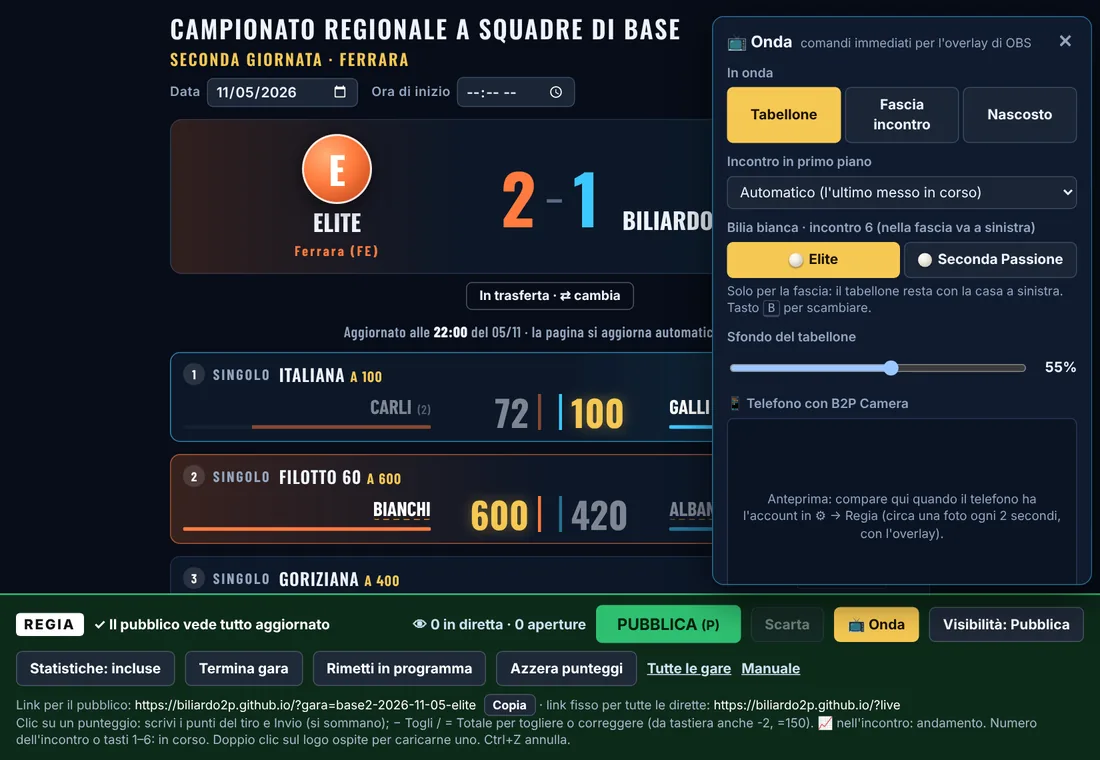
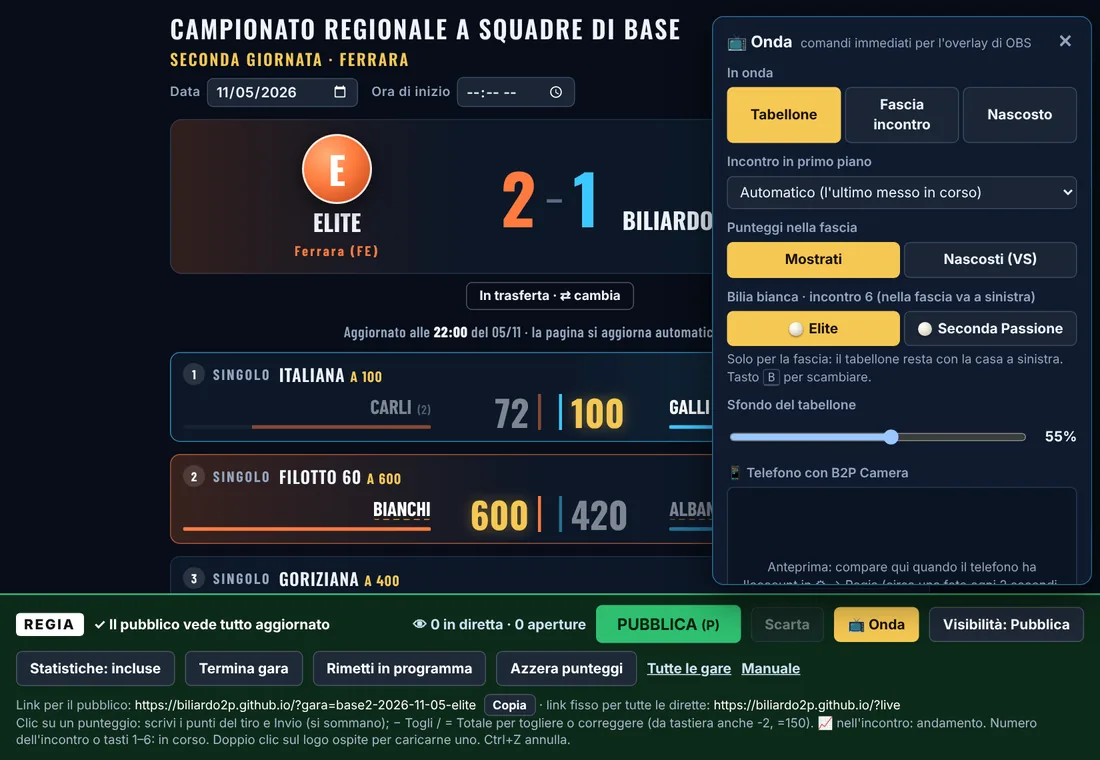
Fascia senza punteggi (nome VS nome) dal pannello Onda, tasto S; manuale; versione 2026112301
Claude-Session: https://claude.ai/code/session_013Bh35CD2cQ8S7o5rzFMs8H

Changed region(s): [[0.6491, 0.3329, 0.9891, 0.7566], [0.68, 0.2724, 0.9273, 0.3026]]

diff --git a/js/overlay.js b/js/overlay.js
@@ -231,6 +231,7 @@ function ovFasciaHTML(){
   const lv = OVMINI && S.stato==="live" ? `<span class="live"><i></i>LIVE</span>` : "";
   const chip = `<div class="chip"><img src="${LOGO_56}" alt="">${esc(S.title)}${S.subtitle ? `<span class="t2">${esc(S.subtitle)}</span>` : ""}${lv}</div>`;
   const i = ovPrimo(), m = S.matches[i]; if(!m) return chip + (OVMINI && !isTorneo() ? ovTeamBand() : "");
+  if(ovO().np) return chip + ovVsHTML(m, i);
   const L = ovRotList(), dots = L.length>1 ? `<div class="rot">${L.map(j=>`<i class="${j===i ? "on" : ""}"></i>`).join("")}</div>` : "";
   const [x, y] = ovFSides(m, i), ix = sd => sd==="h" ? 0 : 1, w = winner(m), tor = isTorneo(), yy = gYear();
   const club = (sd) => tor ? "" : esc((sd==="h" ? S.home : S.away).short || (sd==="h" ? S.home : S.away).name);   /* squadra solo nei campionati a squadre */
@@ -247,6 +248,19 @@ function ovFasciaHTML(){
   const ball = c => `<div class="bb"><i class="ball ${c}" title="${c==="wh" ? "bilia bianca" : "bilia gialla"}"></i></div>`;
   return chip + `<div class="lt balls${x==="a" ? " sw" : ""}${fresh ? " in" : ""}${dots ? " rotn" : ""}">${dots}${side(x)}${sc(x)}${ball("wh")}<div class="mid"><div class="k">${k}</div>${ovSpec(m)}${ovBars(m, x, y)}${extra}</div>${ball("ye")}${sc(y)}${side(y)}</div>`;
 }
+/* fascia senza punteggi (dal 23/11/2026): onda.np = true → "nome 1 VS nome 2" con squadra, logo e specialità; niente punteggi, bilie, set e punti squadra.
+   Per le dirette in cui nessuno aggiorna i punti (es. Enrico gioca). Lati come il tabellone (casa a sinistra). */
+function ovVsHTML(m, i){
+  const [x, y] = SDS(), tor = isTorneo();
+  const club = sd => esc((sd==="h" ? S.home : S.away).short || (sd==="h" ? S.home : S.away).name);
+  const names = sd => { const ns = m[sd].map((_,j)=>ovName(m, sd, j)).filter(Boolean); return ns.length ? ns.map(n=>`<span>${n}</span>`).join("") : "—"; };
+  const txt = sd => `${tor ? "" : `<div class="tm">${club(sd)}</div>`}<div class="p${m[sd].length>1 && m.kind!=="Staffetta" ? " two" : ""}">${m.kind==="Staffetta" ? ovName(m, sd, Math.min(relayIdx(m), m[sd].length-1)) || "—" : names(sd)}</div>`;
+  const side = sd => { const lg = tor ? "" : ovSqLogo(sd);
+    return `<div class="side ${sd} ${sd===x ? "L" : "R"}${lg ? " lg" : ""}">${lg ? `${lg}<div class="tx">${txt(sd)}</div>` : txt(sd)}</div>`; };
+  const k = tor ? [m.turno || "", m.bil ? "Biliardo " + esc(m.bil) : ""].filter(Boolean).join(" · ") : [`Incontro ${i+1}`, m.kind, m.bil ? "Biliardo " + esc(m.bil) : ""].filter(Boolean).join(" · ");
+  const fresh = i!==ovLastPrimo && ovLastPrimo!==-2; ovLastPrimo = i;
+  return `<div class="lt vs${x==="a" ? " sw" : ""}${fresh ? " in" : ""}">${side(x)}<div class="mid">${k ? `<div class="k">${k}</div>` : ""}<div class="vsv">VS</div>${ovSpec(m)}</div>${side(y)}</div>`;
+}
 /* logo della squadra agli estremi della fascia (campionati a squadre, dal 15/11/2026): casa = logo del circolo già ridotto, ospite = logo o sigla */
 function ovSqLogo(sd){ const img = sd==="h" ? `<img src="${LOGO_96}" alt="">` : S.away.logo ? `<img src="${esc(S.away.logo)}" alt="">` : S.away.badge ? `<div class="badge">${esc(S.away.badge)}</div>` : "";
   return img ? `<div class="flg">${img}</div>` : ""; }
@@ -259,6 +273,7 @@ function ovTeamBand(){
   const k = S.stato==="finita" ? "Risultato finale" : done ? `${done} incontr${done>1 ? "i" : "o"} su ${n}` : "Si comincia";
   const sub = S.stato!=="finita" && nx>=0 ? `<div class="tot">PROSSIMO · ${nx+1} ${esc(S.matches[nx].kind)}</div>` : "";
   ovLastPrimo = -1;
+  if(ovO().np) return `<div class="lt vs team${x==="a" ? " sw" : ""}">${side(x)}<div class="mid"><div class="k">${esc(S.subtitle || "")}</div><div class="vsv">VS</div></div>${side(y)}</div>`;
   return `<div class="lt team${x==="a" ? " sw" : ""}">${side(x)}<div class="lsc ${x}" data-tot="${x}">${t[ix(x)]}</div><div class="mid"><div class="k">${k}</div><div class="s">Punti squadra</div>${sub}</div><div class="lsc ${y}" data-tot="${y}">${t[ix(y)]}</div>${side(y)}</div>`;
 }
 /* ---- disegno ---- */
@@ -301,7 +316,9 @@ function ondaPaint(){
     <div class="og"><span>Incontro in primo piano</span><select data-o="primo"><option value="-1">Automatico (l'ultimo messo in corso)</option>${ondaMatches().map(x=>`<option value="${x.i}"${o.primo===x.i ? " selected" : ""}>${esc(lab(x.m, x.i))}</option>`).join("")}</select></div>
     ${pages.length>1 ? `<div class="og"><span>Pagina del tabellone</span><div class="two"><select data-o="pag"><option value="">Automatica</option>${pages.map(pg=>`<option value="${pg.key}"${o.pag===pg.key ? " selected" : ""}>${esc(pg.title)}</option>`).join("")}</select>
       <select data-o="ciclo" title="Rotazione automatica delle pagine (con pagina Automatica)">${[[0,"Ferma"],[10,"Ruota ogni 10 s"],[15,"Ruota ogni 15 s"],[20,"Ruota ogni 20 s"],[30,"Ruota ogni 30 s"]].map(([v,t])=>`<option value="${v}"${(+o.ciclo||0)===v ? " selected" : ""}>${t}</option>`).join("")}</select></div></div>` : ""}
-    ${ondaBiancaHTML()}
+    <div class="og"><span>Punteggi nella fascia</span><div class="seg s2">${[[0,"Mostrati"],[1,"Nascosti (VS)"]].map(([k,t])=>`<button data-o="np:${k}" class="${!!o.np===!!k ? "on" : ""}">${t}</button>`).join("")}</div>
+      ${o.np ? `<small>Fascia senza punteggi, bilie e set: per le dirette in cui nessuno aggiorna i punti. Il tabellone (V) li mostra comunque. Tasto <kbd>S</kbd>.</small>` : ""}</div>
+    ${o.np ? "" : ondaBiancaHTML()}
     <div class="og"><span>Sfondo del tabellone</span><div class="two"><input type="range" min="0" max="1" step="0.05" value="${o.bga ?? .55}" data-o="bga"><b>${Math.round((o.bga ?? .55)*100)}%</b></div></div>
     ${camHTML()}
     <div class="og lk"><span>Sorgente Browser in OBS (1280×720)</span>
@@ -311,7 +328,7 @@ function ondaPaint(){
       <div class="two"><code>${esc(pub)}?overlay&amp;riepilogo&amp;live</code><button data-o="copy:riep">Copia</button></div>
       <small>Gli ultimi due sono per le dirette con telecamera (due widget di PRISM): la fascia con l'incontro in primo piano (tasto F per cambiarlo), e il riepilogo a tutto schermo che compare al posto della fascia quando è in onda il Tabellone (tasto V).</small></div>
     ${ondaErr ? `<p class="err">${esc(ondaErr)}</p>` : ""}
-    <p class="hint">Tasti: <kbd>N</kbd> nascondi/mostra · <kbd>V</kbd> tabellone/fascia · <kbd>F</kbd> incontro in primo piano · <kbd>B</kbd> bilia bianca · <kbd>[</kbd> <kbd>]</kbd> sfondo. Risultati e nomi vanno in onda con PUBBLICA; questi comandi subito.</p>`;
+    <p class="hint">Tasti: <kbd>N</kbd> nascondi/mostra · <kbd>V</kbd> tabellone/fascia · <kbd>F</kbd> incontro in primo piano · <kbd>B</kbd> bilia bianca · <kbd>S</kbd> punteggi sì/no · <kbd>[</kbd> <kbd>]</kbd> sfondo. Risultati e nomi vanno in onda con PUBBLICA; questi comandi subito.</p>`;
 }
 /* bilia bianca dell'incontro in primo piano nella fascia (a sinistra) */
 function ondaBiancaHTML(){ const i = ovPrimo(), m = S.matches[i]; if(!m) return "";
@@ -323,6 +340,7 @@ async function ondaBianca(sd){ const i = ovPrimo(), m = S.matches[i]; if(!m) ret
   const k = mkey(m, i), cur = ovFSides(m, i)[0]; if(!sd) sd = cur==="h" ? "a" : "h";
   await ondaSet({bianca: Object.assign({}, ovO().bianca || {}, {[k]: sd})});
   if(!ondaErr) setFlash(`Bilia bianca: ${m.kind==="Staffetta" ? teamShort(sd) : namesOf(m, sd) || (sd==="h" ? "casa" : "ospite")}`); }
+async function ondaNp(on){ await ondaSet({np: on}); if(!ondaErr) setFlash(on ? "Fascia senza punteggi" : "Fascia con i punteggi"); }
 function ondaToggle(){
   ondaOpen = !ondaOpen; ondaWatch(); camWatch(); if(ondaOpen) telStart(); else telStop();
   let p = document.getElementById("ondap");
@@ -332,6 +350,7 @@ function ondaToggle(){
       else if(k==="v") ondaSet({v});
       else if(k==="cam") camClick(v);
       else if(k==="bia") ondaBianca(v);
+      else if(k==="np") ondaNp(v==="1");
       else if(k==="copy"){ const t = (PUBLIC_URL || pageURL("")) + (v==="live" ? "?overlay&live" : v==="mini" ? "?overlay&mini&live" : v==="riep" ? "?overlay&riepilogo&live" : "?overlay&gara=" + GARA);
         try{ navigator.clipboard.writeText(t).then(()=>setFlash("Indirizzo per OBS copiato"), ()=>setFlash(t)); }catch(err){ setFlash(t); } } });
     p.addEventListener("change", e=>{ const k = e.target.dataset.o; if(!k) return;
@@ -469,13 +488,14 @@ function camHTML(){ const c = camV(), sw = (k, on, t1, t0) => `<button data-o="c
 document.addEventListener("keydown", e=>{
   if(!editor || mode!=="board" || e.ctrlKey || e.metaKey || e.altKey) return;
   const ae = document.activeElement; if(ae && (ae.isContentEditable || /INPUT|SELECT|TEXTAREA/.test(ae.tagName))) return;
-  const k = e.key.toLowerCase(), o = ovO(); if(!/^[nvfb\[\]]$/.test(k)) return;
+  const k = e.key.toLowerCase(), o = ovO(); if(!/^[nvfbs\[\]]$/.test(k)) return;
   ondaWatch();
   if(k==="n") ondaSet({v: o.v==="off" ? (ondaLastV || "tab") : "off"});
   else if(k==="v") ondaSet({v: o.v==="fascia" ? "tab" : "fascia"});
   else if(k==="f"){ const L = (S.inCorso||[]).length ? S.inCorso : ondaMatches().map(x=>x.i); if(!L.length) return;
     const cur = L.indexOf(o.primo); ondaSet({primo: L[(cur + 1) % L.length]}); }
-  else if(k==="b") ondaBianca();
+  else if(k==="b"){ if(!o.np) ondaBianca(); }
+  else if(k==="s") ondaNp(!o.np);
   else if(k==="[") ondaSet({bga: Math.min(1, Math.round(((o.bga ?? .55) + .1)*20)/20)});
   else if(k==="]") ondaSet({bga: Math.max(0, Math.round(((o.bga ?? .55) - .1)*20)/20)});
 });

diff --git a/index.html b/index.html
@@ -17,12 +17,12 @@
 <meta name="apple-mobile-web-app-title" content="Live 2P">
 <link rel="preconnect" href="https://fonts.gstatic.com" crossorigin>
 <link rel="stylesheet" href="https://fonts.googleapis.com/css2?family=Barlow+Condensed:wght@500;600;700;800&family=Oswald:wght@600;700&display=swap">
-<link rel="stylesheet" href="css/base.css?v=2026111502">
-<link rel="stylesheet" href="css/elenco-regia.css?v=2026111502">
-<link rel="stylesheet" href="css/torneo.css?v=2026111502">
-<link rel="stylesheet" href="css/set-andamento.css?v=2026111502">
-<link rel="stylesheet" href="css/anagrafica.css?v=2026111502">
-<link rel="stylesheet" href="css/overlay.css?v=2026111502">
+<link rel="stylesheet" href="css/base.css?v=2026112301">
+<link rel="stylesheet" href="css/elenco-regia.css?v=2026112301">
+<link rel="stylesheet" href="css/torneo.css?v=2026112301">
+<link rel="stylesheet" href="css/set-andamento.css?v=2026112301">
+<link rel="stylesheet" href="css/anagrafica.css?v=2026112301">
+<link rel="stylesheet" href="css/overlay.css?v=2026112301">
 </head>
 <body>
 <div id="app"></div>
@@ -69,22 +69,22 @@
 <div id="sug" hidden role="listbox" aria-label="Giocatori"></div>
 <script src="https://www.gstatic.com/firebasejs/10.12.2/firebase-app-compat.js"></script>
 <script src="https://www.gstatic.com/firebasejs/10.12.2/firebase-database-compat.js"></script>
-<script src="js/config.js?v=2026111502"></script>
-<script src="js/formule.js?v=2026111502"></script>
-<script src="js/util.js?v=2026111502"></script>
-<script src="js/gara.js?v=2026111502"></script>
-<script src="js/dati.js?v=2026111502"></script>
-<script src="js/vista-gara.js?v=2026111502"></script>
-<script src="js/vista-elenco.js?v=2026111502"></script>
-<script src="js/render.js?v=2026111502"></script>
-<script src="js/interazioni.js?v=2026111502"></script>
-<script src="js/anagrafica.js?v=2026111502"></script>
-<script src="js/nomi.js?v=2026111502"></script>
-<script src="js/controllo-nomi.js?v=2026111502"></script>
-<script src="js/giocatori.js?v=2026111502"></script>
-<script src="js/overlay.js?v=2026111502"></script>
-<script src="js/regia-barra.js?v=2026111502"></script>
-<script src="js/avvio.js?v=2026111502"></script>
+<script src="js/config.js?v=2026112301"></script>
+<script src="js/formule.js?v=2026112301"></script>
+<script src="js/util.js?v=2026112301"></script>
+<script src="js/gara.js?v=2026112301"></script>
+<script src="js/dati.js?v=2026112301"></script>
+<script src="js/vista-gara.js?v=2026112301"></script>
+<script src="js/vista-elenco.js?v=2026112301"></script>
+<script src="js/render.js?v=2026112301"></script>
+<script src="js/interazioni.js?v=2026112301"></script>
+<script src="js/anagrafica.js?v=2026112301"></script>
+<script src="js/nomi.js?v=2026112301"></script>
+<script src="js/controllo-nomi.js?v=2026112301"></script>
+<script src="js/giocatori.js?v=2026112301"></script>
+<script src="js/overlay.js?v=2026112301"></script>
+<script src="js/regia-barra.js?v=2026112301"></script>
+<script src="js/avvio.js?v=2026112301"></script>
 
 </body>
 </html>

diff --git a/manuale.html b/manuale.html
@@ -439,6 +439,7 @@ assente
 <tr><th>Comando</th><th>Tasto</th><th>Effetto</th></tr>
 <tr><td>In onda: Tabellone / Fascia incontro / Nascosto</td><td><kbd>V</kbd> · <kbd>N</kbd></td><td>V passa da tabellone a fascia; N nasconde e rimostra l'overlay.</td></tr>
 <tr><td>Incontro in primo piano</td><td><kbd>F</kbd></td><td>Quale incontro va nella fascia. Automatico = quello in corso; se sono più d'uno, l'ultimo messo in corso. Scegliendone uno resta fisso; F passa al successivo tra quelli in corso (è il modo per mostrare gli altri biliardi).</td></tr>
+<tr><td>Punteggi nella fascia</td><td><kbd>S</kbd></td><td>“Nascosti (VS)” per le dirette in cui nessuno aggiorna i punti (per esempio quando chi fa la regia sta giocando): la fascia mostra solo “nome VS nome” con squadra, logo e specialità, senza punteggi, bilie, set e punti squadra. Senza incontri in corso: “squadra VS squadra”. Il tabellone (V) mostra comunque i punteggi. S alterna.</td></tr>
 <tr><td>Bilia bianca</td><td><kbd>B</kbd></td><td>Solo per la fascia: a sinistra va chi ha la bilia bianca, a destra chi ha la gialla, a prescindere da casa e trasferta. Si sceglie per l'incontro in primo piano toccando il nome di chi ha la bianca; B scambia. Ogni incontro ricorda la sua scelta. Il tabellone completo resta con la casa a sinistra.</td></tr>
 <tr><td>Pagina del tabellone</td><td></td><td>Solo tornei con batterie: pagina fissa, automatica, oppure rotazione ogni 10–30 secondi.</td></tr>
 <tr><td>Sfondo del tabellone</td><td><kbd>[</kbd> <kbd>]</kbd></td><td>Più pieno o più trasparente.</td></tr>
@@ -585,6 +586,10 @@ assente
 
 <section id="novita" class="chg">
 <h2><span class="n">15</span>Novità</h2>
+<h3>23 novembre 2026</h3>
+<ul>
+  <li>Pannello 📺 Onda: <b>fascia senza punteggi</b> (tasto S), solo “nome VS nome” con squadra e specialità, per le dirette in cui i punti non vengono aggiornati.</li>
+</ul>
 <h3>15 novembre 2026</h3>
 <ul>
   <li>Fascia dell'overlay e mini-overlay: nei campionati a squadre il <b>logo delle squadre</b> agli estremi, accanto ai nomi.</li>

diff --git a/css/overlay.css b/css/overlay.css
@@ -217,6 +217,10 @@ body.ovm > *:not(#app){display:none!important}
 /* bilie (13/11/2026): bianca accanto al punteggio di sinistra, gialla accanto a quello di destra */
 #ov .lt.balls{grid-template-columns:1fr 128px 44px 300px 44px 128px 1fr}
 #ov .lt .bb{display:grid;place-items:center}
+/* fascia senza punteggi (23/11/2026): nome VS nome */
+#ov .lt.vs{grid-template-columns:1fr 420px 1fr}
+#ov .lt.vs .mid{gap:2px}
+#ov .lt .vsv{font-family:var(--fh);font-weight:700;font-size:34px;line-height:1;color:var(--gold);letter-spacing:.08em;text-shadow:0 0 14px rgba(246,200,83,.35)}
 #ov .ball{display:inline-block;width:28px;height:28px;border-radius:50%;box-shadow:0 2px 5px rgba(0,0,0,.55),inset -2px -3px 5px rgba(0,0,0,.28);flex:none}
 #ov .ball.wh{background:radial-gradient(circle at 34% 30%,#fff 0,#fbfaf4 22%,#e4dfd0 62%,#a9a290 100%)}
 #ov .ball.ye{background:radial-gradient(circle at 34% 30%,#fff7cf 0,#ffd94a 24%,#f0b400 62%,#9a6b00 100%)}
@@ -242,6 +246,9 @@ body.ovm > *:not(#app){display:none!important}
 #ov.mini .lt .mid .s small{font-size:1em}
 #ov.mini .lt.balls{grid-template-columns:1fr 100px 36px 270px 36px 100px 1fr}
 #ov.mini .lt .ball{width:24px;height:24px}
+#ov.mini .lt.vs{grid-template-columns:1fr 340px 1fr}
+#ov.mini .lt.vs .mid{gap:1px}
+#ov.mini .lt .vsv{font-size:25px}
 #ov.mini .lt .bars{width:240px;height:4px}
 #ov.mini .lt .tot{font-size:12.5px}
 #ov.mini .lt .tot b{font-size:17px}
